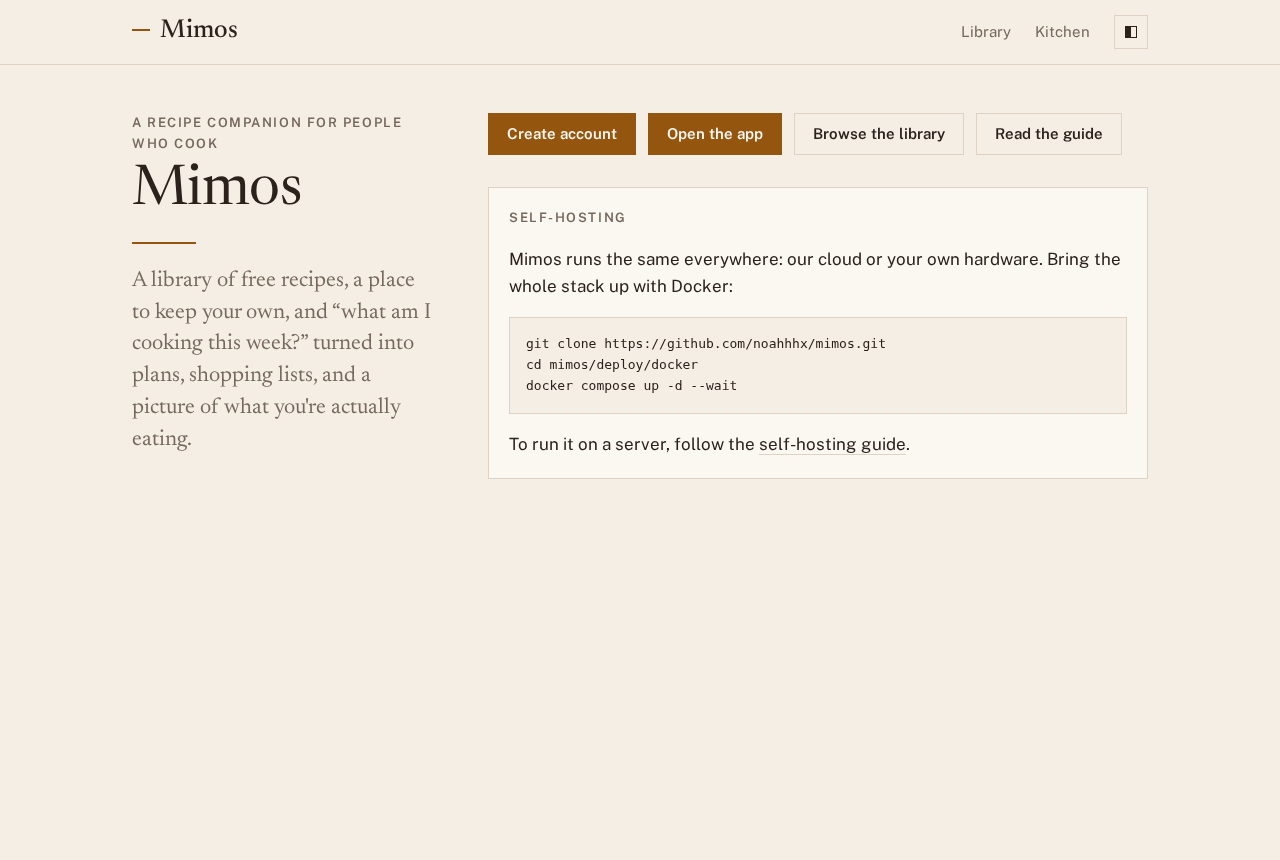
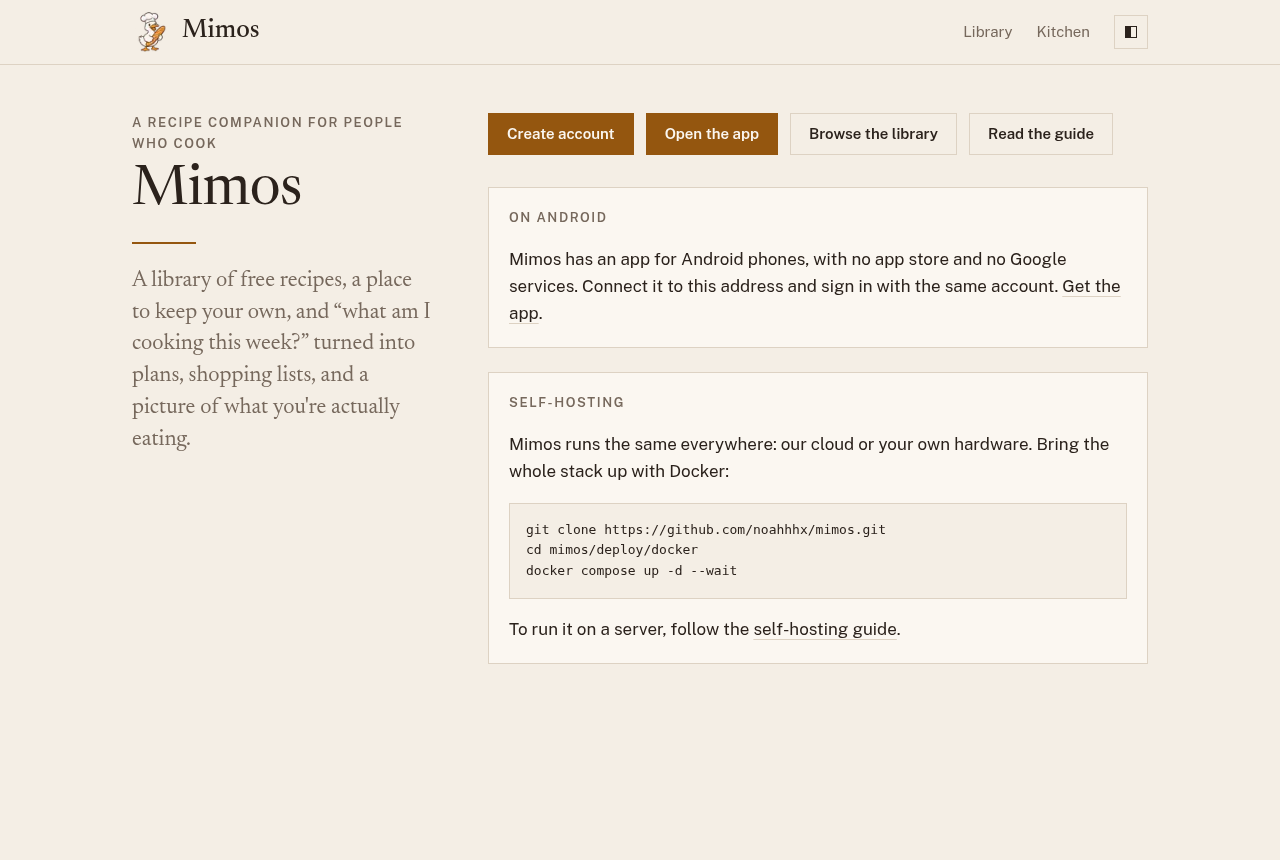
feat(web): link the Android app's guide from the home page

diff --git a/apps/web/src/app/page.tsx b/apps/web/src/app/page.tsx
@@ -42,6 +42,14 @@ export default function HomePage() {
       </p>
 
       <div className="card">
+        <h2>On Android</h2>
+        <p>
+          Mimos has an app for Android phones, with no app store and no Google services. Connect it to
+          this address and sign in with the same account. <a href={`${DOCS_URL}guide/android-app/`}>Get the app</a>.
+        </p>
+      </div>
+
+      <div className="card">
         <h2>Self-hosting</h2>
         <p>
           Mimos runs the same everywhere: our cloud or your own hardware. Bring the whole stack up
